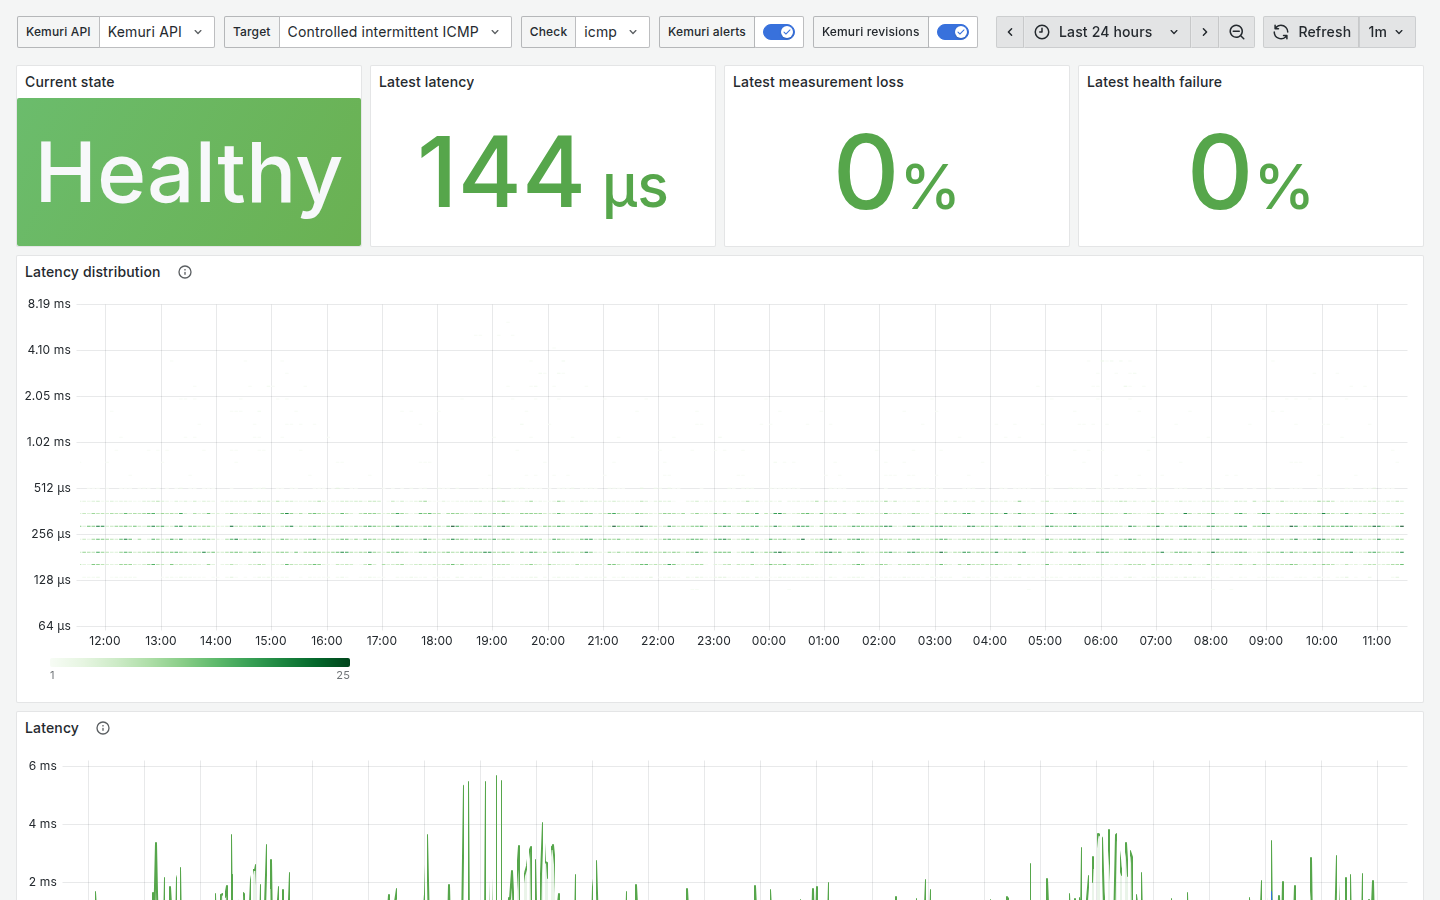
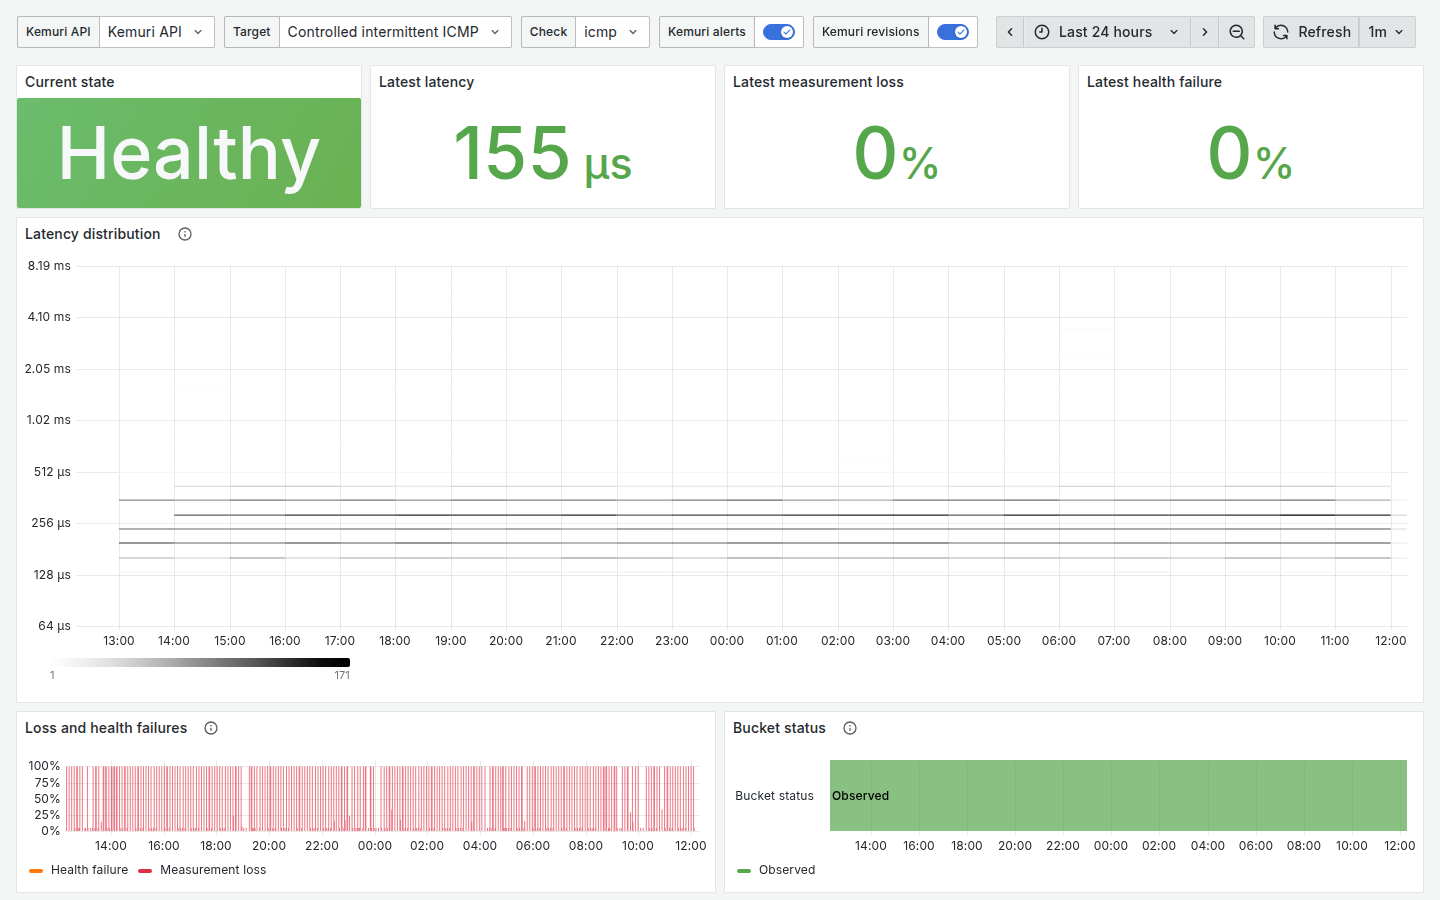
docs(site): refresh Grafana smoke graph

diff --git a/site/operations/grafana.md b/site/operations/grafana.md
@@ -81,6 +81,9 @@ more samples.
 Timeouts and network errors do not enter the latency histogram. Use the loss
 panel and the bucket-status panel to inspect these results.
 
+The loss and bucket-status panels use the same time range and appear directly
+below the heatmap.
+
 The dashboard requests at most 300 time buckets for the heatmap. Kemuri uses
 rollups when the selected range contains too many raw rounds.
 
